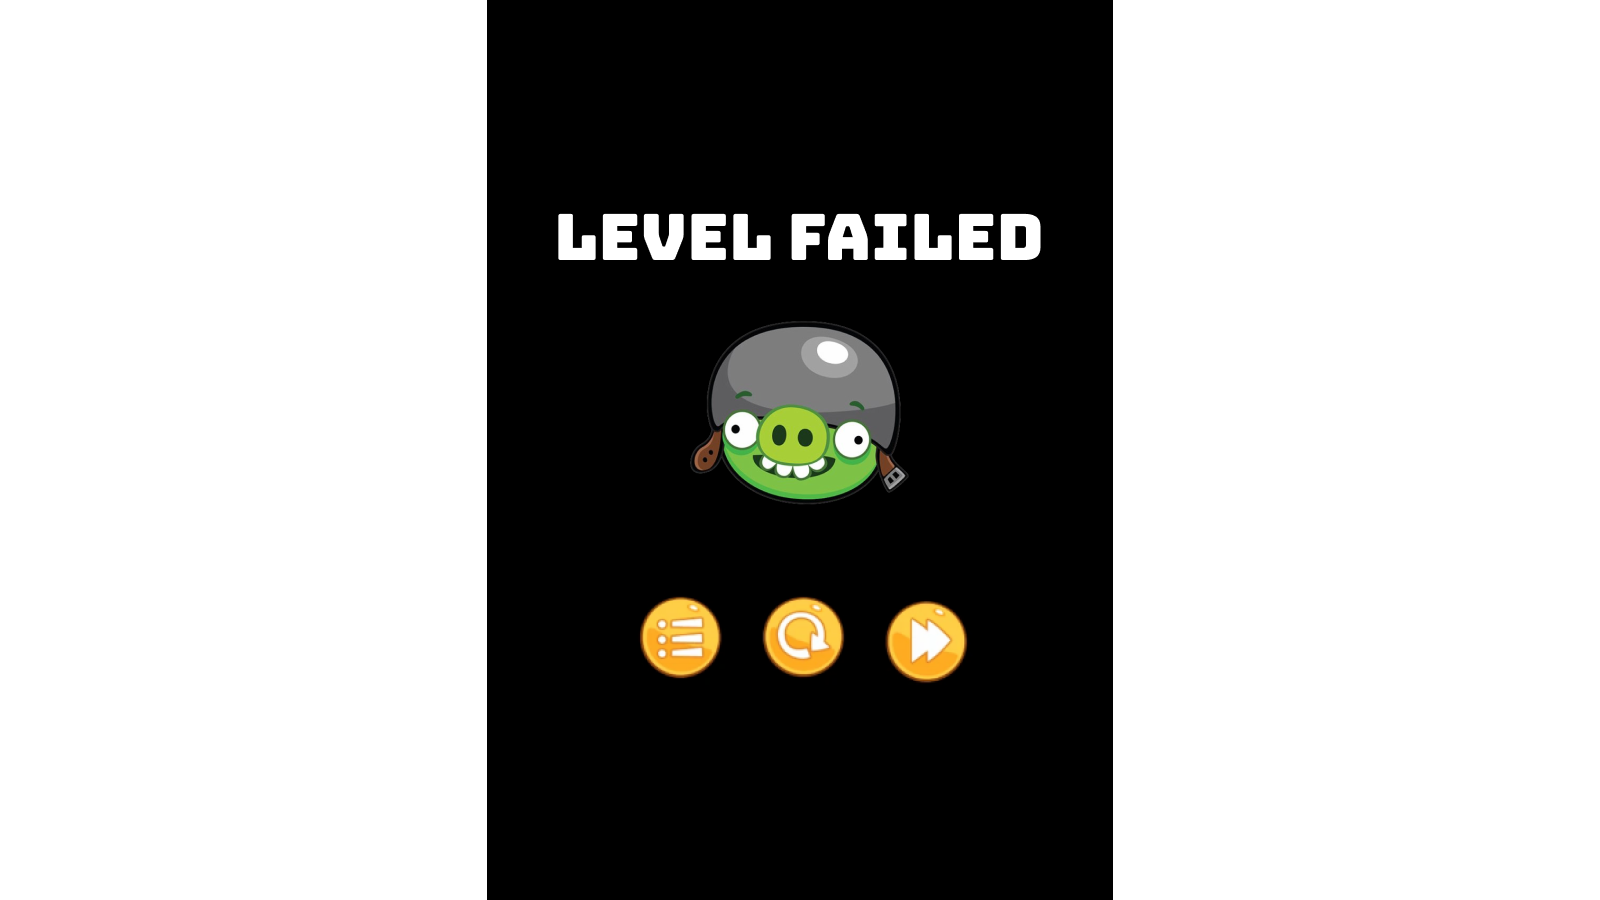
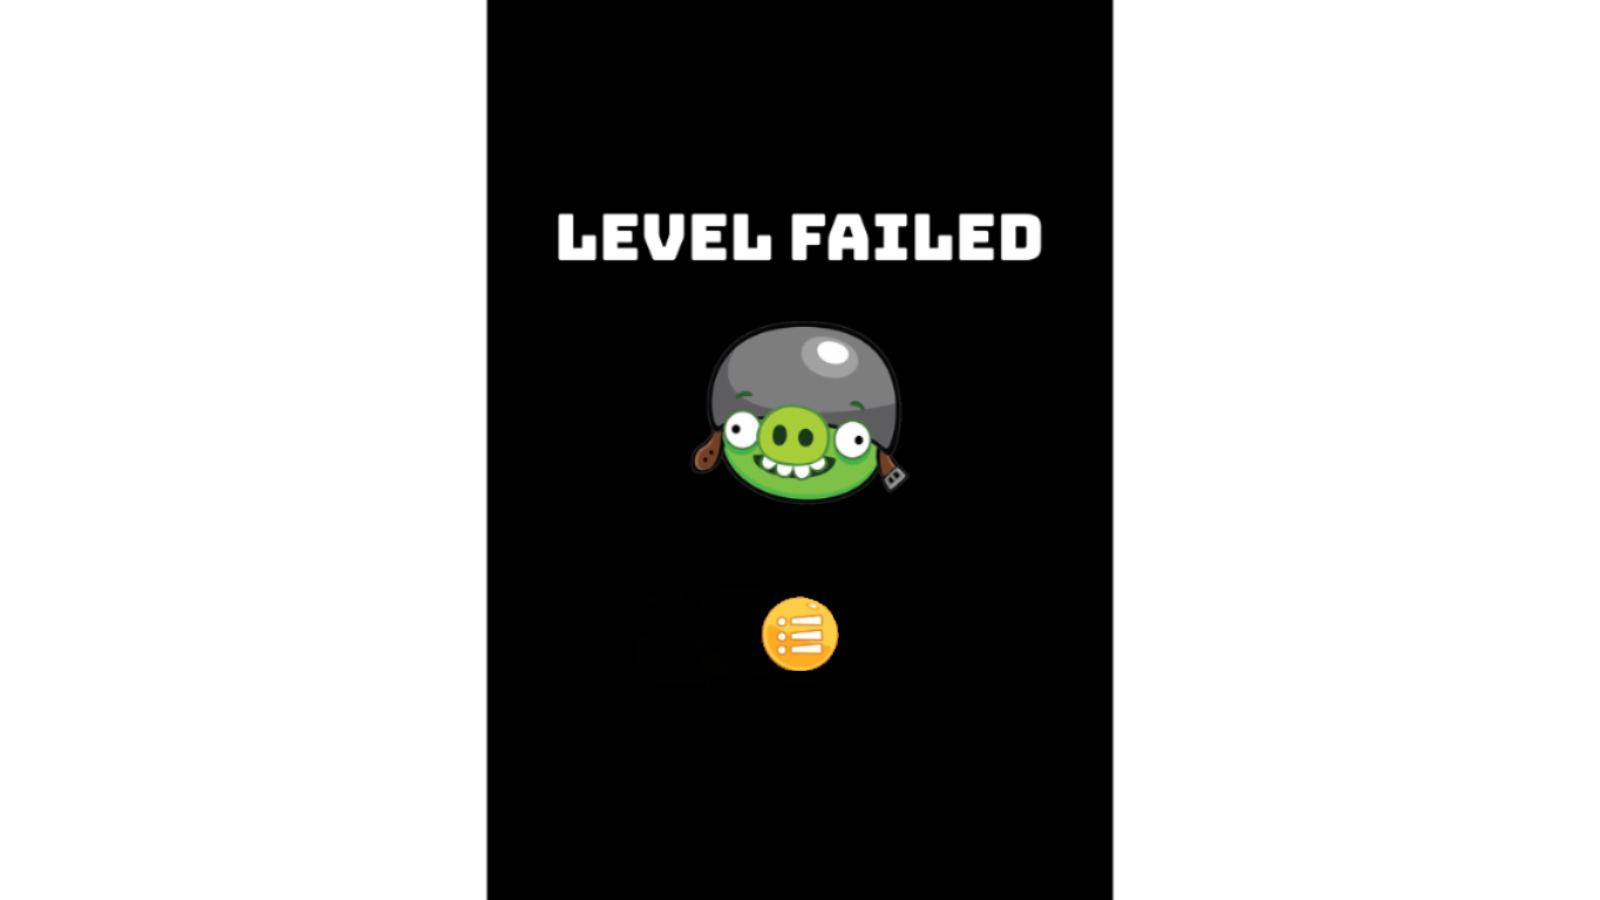
winlose screens done

diff --git a/core/src/main/java/birds/angry/Screens/WinScreen.java b/core/src/main/java/birds/angry/Screens/WinScreen.java
@@ -22,7 +22,7 @@ public class WinScreen extends BaseScreen {
         winbg = Assets.winbg;
         levelselect = new Button(invisibleButtonStyle);
         levelselect.setSize(70,70);
-        levelselect.setPosition(13 * grid_size,4.5f * grid_size);
+        levelselect.setPosition(15.5f * grid_size,4.5f * grid_size);
 
         FreeTypeFontGenerator generator = new FreeTypeFontGenerator(Gdx.files.internal("font.ttf"));
         FreeTypeFontGenerator.FreeTypeFontParameter parameter = new FreeTypeFontGenerator.FreeTypeFontParameter();

diff --git a/core/src/main/java/birds/angry/Screens/LoseScreen.java b/core/src/main/java/birds/angry/Screens/LoseScreen.java
@@ -15,7 +15,7 @@ public class LoseScreen extends BaseScreen {
         losebg = Assets.losebg;
         levelselect = new Button(invisibleButtonStyle);
         levelselect.setSize(70,70);
-        levelselect.setPosition(13 * grid_size,4.5f * grid_size);
+        levelselect.setPosition(15.5f * grid_size,4.5f * grid_size);
 
         stage.addActor(losebg);
         stage.addActor(levelselect);

diff --git a/core/src/main/java/birds/angry/Screens/LevelScreen.java b/core/src/main/java/birds/angry/Screens/LevelScreen.java
@@ -357,6 +357,12 @@ public class LevelScreen extends BaseScreen implements InputProcessor {
                 }
             }
         }
+        if(keycode == Input.Keys.W){
+            game.setScreen(new WinScreen(game, 1, 1));
+        }
+        if(keycode == Input.Keys.L){
+            game.setScreen(new LoseScreen(game));
+        }
         return true;
     }
 
